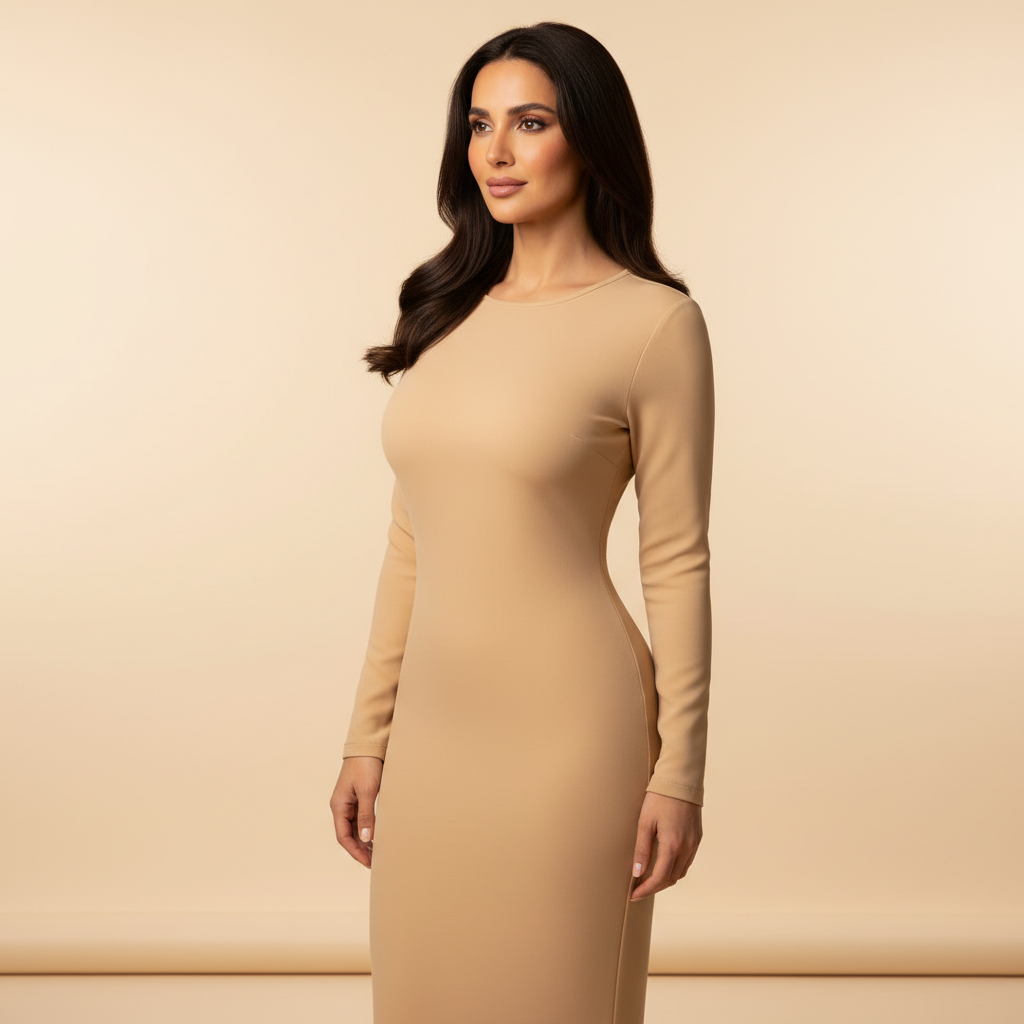
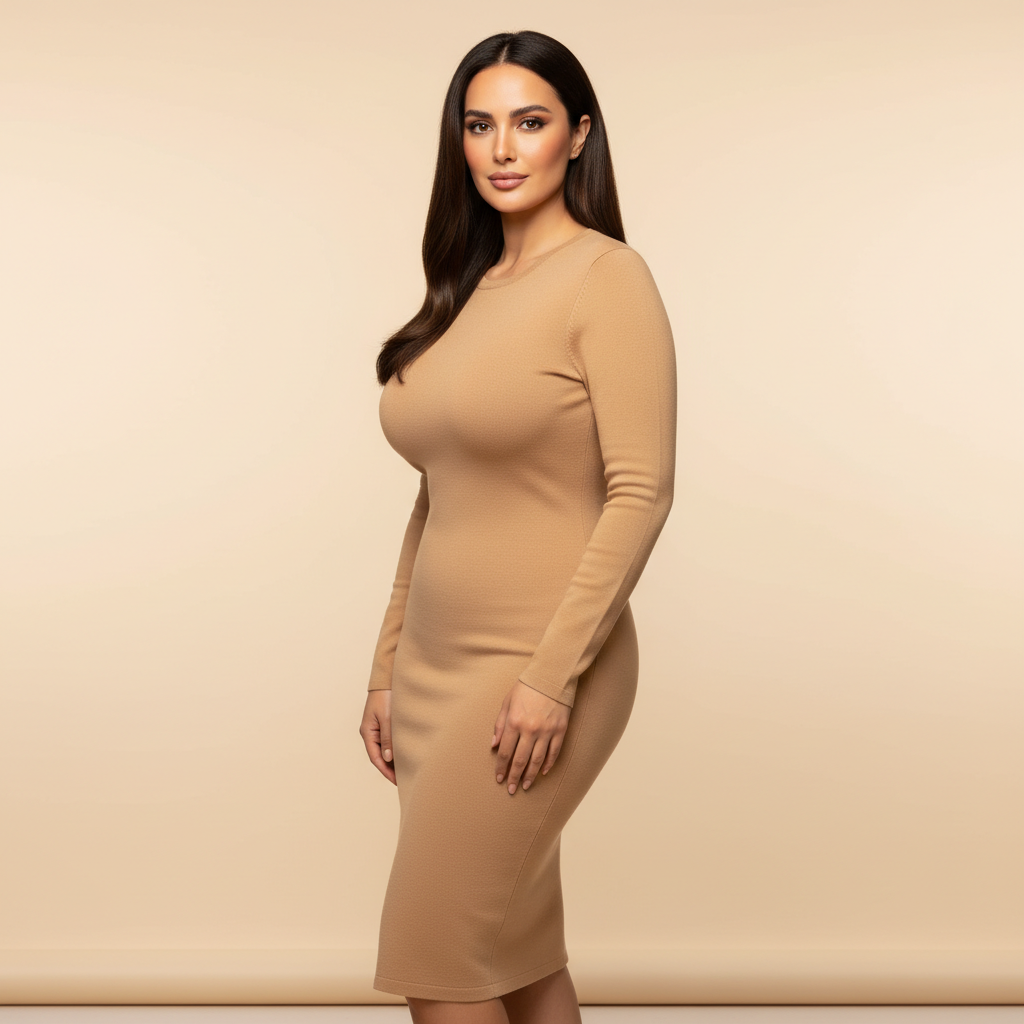
New curvier house model + clearer multi-color status text
- Replace runway-thin house model with fuller size-42 silhouette
- Fix misleading "ajout 2 variantes" status to "(3 couleurs)"
- Remove obsolete add-length flow (now part of cartesian Size×Length×Color)

Changed region(s): [[0.0, 0.0, 1.0, 1.0]]

diff --git a/src/lib/shopify.ts b/src/lib/shopify.ts
@@ -1865,13 +1865,6 @@ export async function addVariantToProduct(
   };
 }
 
-export interface AddLengthResult {
-  productId: string;
-  variantsCreated: number;
-  warnings: string[];
-  adminUrl: string;
-}
-
 const LENGTH_OPTION_NAME = "Length in inch";
 const LENGTH_VALUES = [
   "50",
@@ -1887,148 +1880,3 @@ const LENGTH_VALUES = [
   "60",
 ];
 
-const LENGTH_VARIANTS_NAME_PATTERNS = ["length", "lenght", "longueur"];
-
-export async function addLengthToProduct(
-  productId: string,
-): Promise<AddLengthResult> {
-  const warnings: string[] = [];
-
-  const productData = await shopifyGraphQL<{
-    product: {
-      title: string;
-      handle: string;
-      options: Array<{ id: string; name: string; values: string[] }>;
-      variants: {
-        edges: Array<{
-          node: {
-            id: string;
-            price: string;
-            sku: string | null;
-            selectedOptions: Array<{ name: string; value: string }>;
-          };
-        }>;
-      };
-    } | null;
-  }>(
-    `query Product($id: ID!) {
-      product(id: $id) {
-        title
-        handle
-        options { id name values }
-        variants(first: 100) {
-          edges { node {
-            id
-            price
-            sku
-            selectedOptions { name value }
-          }}
-        }
-      }
-    }`,
-    { id: productId },
-  );
-
-  if (!productData.product) throw new Error("Produit Shopify introuvable");
-
-  const existingLength = productData.product.options.find((o) =>
-    LENGTH_VARIANTS_NAME_PATTERNS.some((p) => o.name.toLowerCase().includes(p)),
-  );
-  if (existingLength) {
-    throw new Error(
-      `Ce produit a déjà une option longueur (« ${existingLength.name} »).`,
-    );
-  }
-
-  const existingVariants = productData.product.variants.edges.map((e) => e.node);
-
-  const optRes = await shopifyGraphQL<{
-    productOptionsCreate: {
-      userErrors: Array<{ field: string[]; message: string }>;
-    };
-  }>(
-    `mutation OptionsCreate($productId: ID!, $options: [OptionCreateInput!]!) {
-      productOptionsCreate(productId: $productId, options: $options) {
-        userErrors { field message }
-      }
-    }`,
-    {
-      productId,
-      options: [
-        {
-          name: LENGTH_OPTION_NAME,
-          values: [{ name: LENGTH_VALUES[0] }],
-        },
-      ],
-    },
-  );
-
-  if (optRes.productOptionsCreate.userErrors.length) {
-    throw new Error(
-      `Length option create: ${optRes.productOptionsCreate.userErrors.map((e) => e.message).join(", ")}`,
-    );
-  }
-
-  const newVariants: Array<{
-    optionValues: Array<{ optionName: string; name: string }>;
-    price: string;
-    inventoryItem: { sku: string; tracked: boolean };
-  }> = [];
-
-  for (const variant of existingVariants) {
-    const otherOptions = variant.selectedOptions.filter(
-      (o) => o.name !== LENGTH_OPTION_NAME,
-    );
-    for (const lv of LENGTH_VALUES.slice(1)) {
-      newVariants.push({
-        optionValues: [
-          ...otherOptions.map((o) => ({ optionName: o.name, name: o.value })),
-          { optionName: LENGTH_OPTION_NAME, name: lv },
-        ],
-        price: variant.price,
-        inventoryItem: { sku: variant.sku ?? "", tracked: true },
-      });
-    }
-  }
-
-  if (newVariants.length > 0) {
-    const createRes = await shopifyGraphQL<{
-      productVariantsBulkCreate: {
-        productVariants: Array<{ id: string; inventoryItem: { id: string } | null }> | null;
-        userErrors: Array<{ field: string[]; message: string }>;
-      };
-    }>(
-      `mutation VariantCreate($productId: ID!, $variants: [ProductVariantsBulkInput!]!) {
-        productVariantsBulkCreate(productId: $productId, variants: $variants) {
-          productVariants { id inventoryItem { id } }
-          userErrors { field message }
-        }
-      }`,
-      { productId, variants: newVariants },
-    );
-
-    if (createRes.productVariantsBulkCreate.userErrors.length) {
-      warnings.push(
-        `Variant create: ${createRes.productVariantsBulkCreate.userErrors.map((e) => e.message).join(", ")}`,
-      );
-    }
-
-    // Apply customs (country of origin + HS code) on the newly created length variants
-    const newInventoryItemIds = (createRes.productVariantsBulkCreate.productVariants ?? [])
-      .map((v) => v.inventoryItem?.id)
-      .filter((id): id is string => Boolean(id));
-    if (newInventoryItemIds.length > 0) {
-      warnings.push(...(await applyCustomsToInventoryItems(newInventoryItemIds)));
-    }
-  }
-
-  const numericId = productId.split("/").pop();
-  const adminUrl = `https://${SHOPIFY_STORE_URL.replace(/\.myshopify\.com$/, "")}.myshopify.com/admin/products/${numericId}`;
-
-  return {
-    productId,
-    variantsCreated: newVariants.length,
-    warnings,
-    adminUrl,
-  };
-}

diff --git a/src/app/product-photo/page.tsx b/src/app/product-photo/page.tsx
@@ -1650,10 +1650,6 @@ function ShopifyPushBox({
   const [result, setResult] = useState<PushResult | AddVariantResult | null>(null);
   const [resultMode, setResultMode] = useState<"new" | "variant">("new");
 
-  const [addingLength, setAddingLength] = useState(false);
-  const [lengthAdded, setLengthAdded] = useState<{ count: number; warnings: string[] } | null>(null);
-  const [lengthError, setLengthError] = useState<string | null>(null);
-
   useEffect(() => {
     let cancelled = false;
     setCollectionsLoading(true);
@@ -1801,34 +1797,6 @@ function ShopifyPushBox({
     }
   }
 
-  async function addLength() {
-    if (!result || resultMode !== "new") return;
-    const productId = (result as PushResult).productId;
-    if (!productId) {
-      setLengthError("ID produit manquant");
-      return;
-    }
-    setAddingLength(true);
-    setLengthError(null);
-    try {
-      const res = await fetch("/api/shopify/add-length", {
-        method: "POST",
-        headers: { "Content-Type": "application/json" },
-        body: JSON.stringify({ productId }),
-      });
-      const data = await res.json();
-      if (!res.ok) throw new Error(data.error ?? "Échec de l'ajout de Length");
-      setLengthAdded({
-        count: data.variantsCreated ?? 0,
-        warnings: data.warnings ?? [],
-      });
-    } catch (err) {
-      setLengthError(err instanceof Error ? err.message : "Erreur inconnue");
-    } finally {
-      setAddingLength(false);
-    }
-  }
-
   if (result) {
     const isVariant = resultMode === "variant";
     return (
@@ -1856,28 +1824,7 @@ function ShopifyPushBox({
             <ExternalLink className="w-3.5 h-3.5" />
             Ouvrir dans Shopify
           </a>
-          {!isVariant && !lengthAdded && (
-            <button
-              type="button"
-              onClick={addLength}
-              disabled={addingLength}
-              className="inline-flex items-center gap-1.5 px-3 py-2 rounded-lg bg-background border border-border text-foreground text-xs font-medium hover:border-accent disabled:opacity-50 disabled:cursor-not-allowed"
-            >
-              {addingLength ? "Ajout en cours…" : "📏 Ajouter Length (50–60)"}
-            </button>
-          )}
         </div>
-        {lengthAdded && (
-          <div className="text-[11px] text-green-400 bg-green-500/10 border border-green-500/20 rounded-lg p-2">
-            ✅ Length ajoutée — {lengthAdded.count} nouvelles variantes créées
-            (taille × longueur).
-          </div>
-        )}
-        {lengthError && (
-          <div className="text-[11px] text-red-400 bg-red-500/10 border border-red-500/20 rounded-lg p-2">
-            ❌ {lengthError}
-          </div>
-        )}
         {result.warnings.length > 0 && (
           <div className="text-[11px] text-amber-400 bg-amber-500/10 border border-amber-500/20 rounded-lg p-2 space-y-1">
             <p className="font-medium">Quelques avertissements :</p>

diff --git a/src/app/product-photo/full/page.tsx b/src/app/product-photo/full/page.tsx
@@ -415,7 +415,7 @@ export default function FullProductPage() {
               <ol className="space-y-3 text-sm text-foreground-muted list-decimal list-inside">
                 <li>Vous renseignez SKU, prix et infos de base</li>
                 <li>Pour chaque couleur, vous saisissez le nom (ex: <em>Olive</em>) et uploadez sa vraie photo</li>
-                <li>L&apos;IA Gemini analyse la photo principale et écrit la fiche complète : titre, description, SEO, tags — en français ET en arabe Khaleeji</li>
+                <li>L&apos;IA Gemini analyse la photo principale et écrit la fiche complète : titre, description, SEO, tags — en anglais ET en arabe Khaleeji</li>
                 <li>Le produit est créé sur Shopify avec :
                   <ul className="list-disc list-inside ml-4 mt-1 text-xs text-foreground-subtle">
                     <li>Tailles XS-3XL automatiques</li>
@@ -434,7 +434,7 @@ export default function FullProductPage() {
               <Loader2 className="w-8 h-8 mx-auto text-accent animate-spin mb-3" />
               <p className="text-sm text-foreground">Création en cours…</p>
               <p className="text-xs text-foreground-subtle mt-1">
-                Génération fiche → push produit → ajout {validColors.length - 1} variante{validColors.length - 1 > 1 ? "s" : ""}
+                Génération fiche → push produit ({validColors.length} couleur{validColors.length > 1 ? "s" : ""})
               </p>
             </div>
           )}